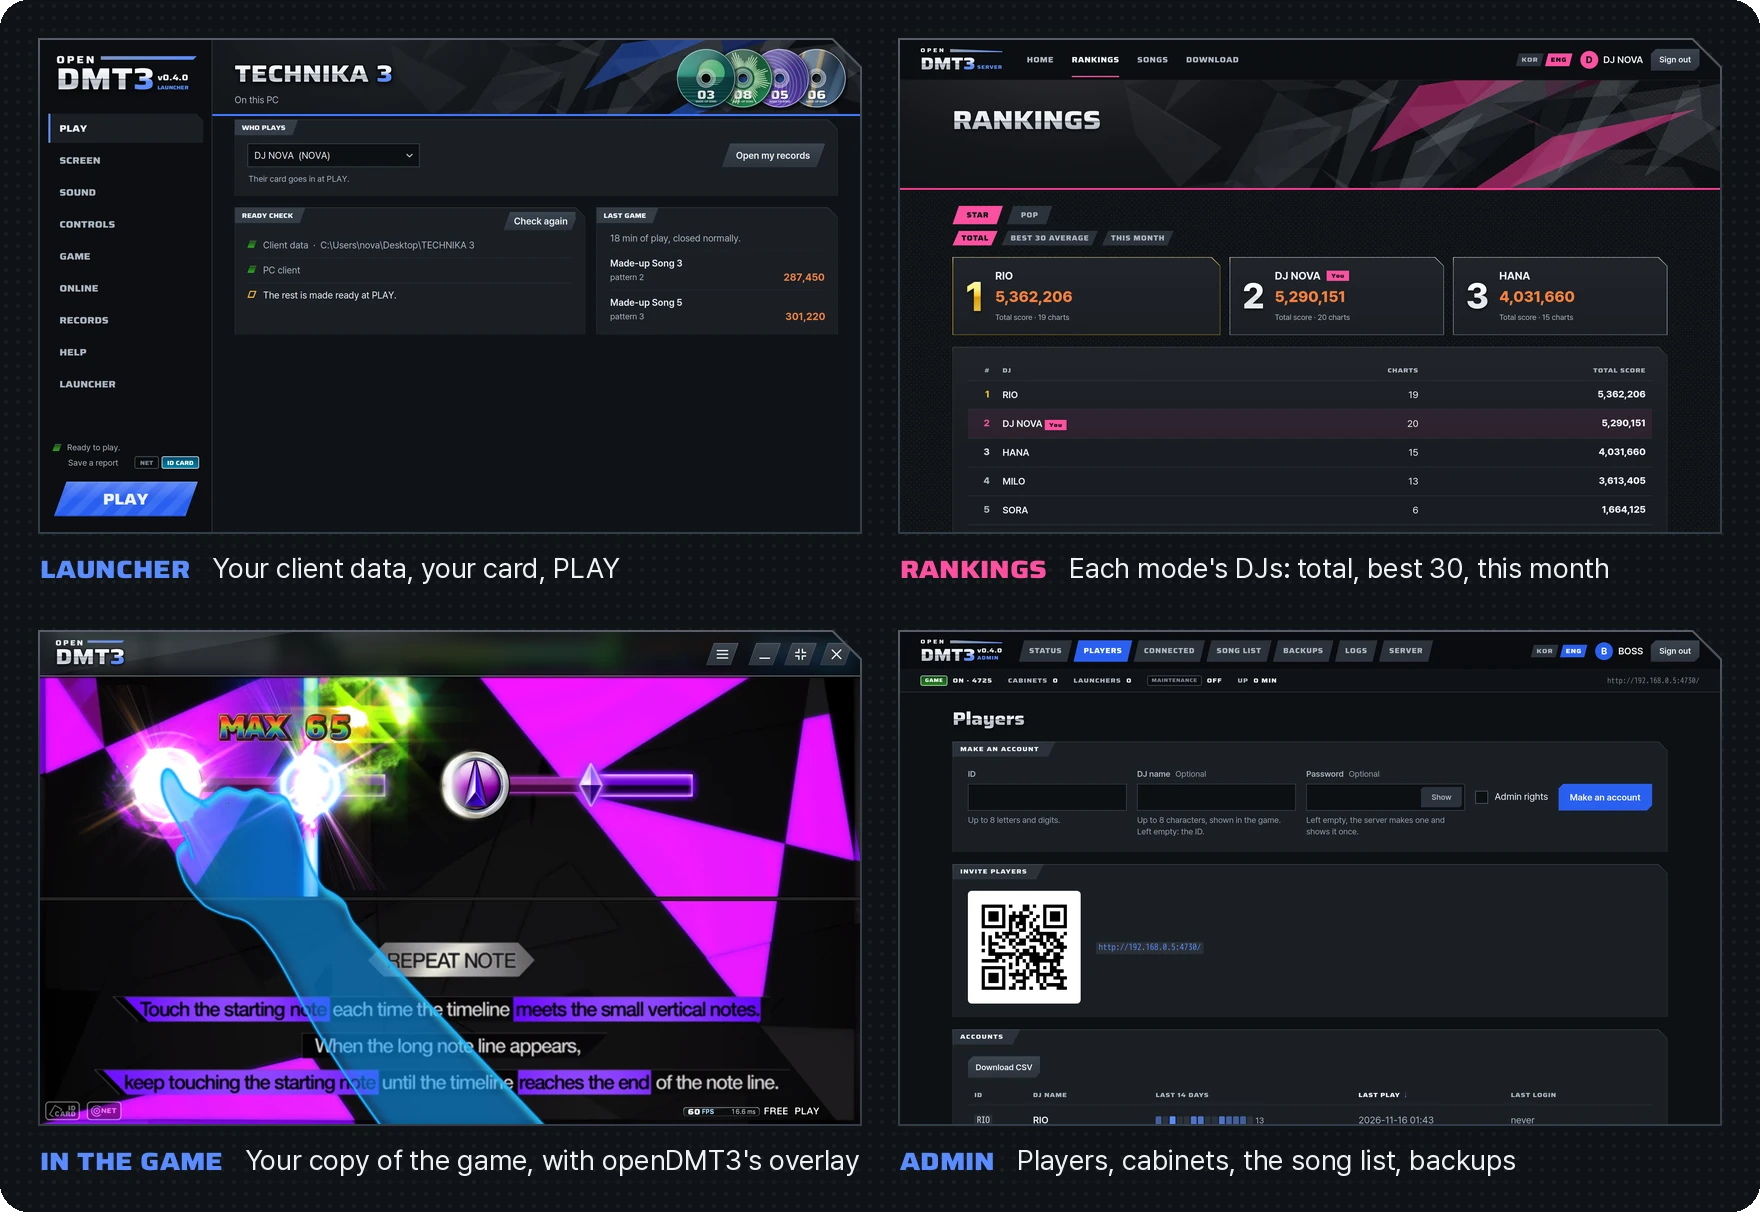
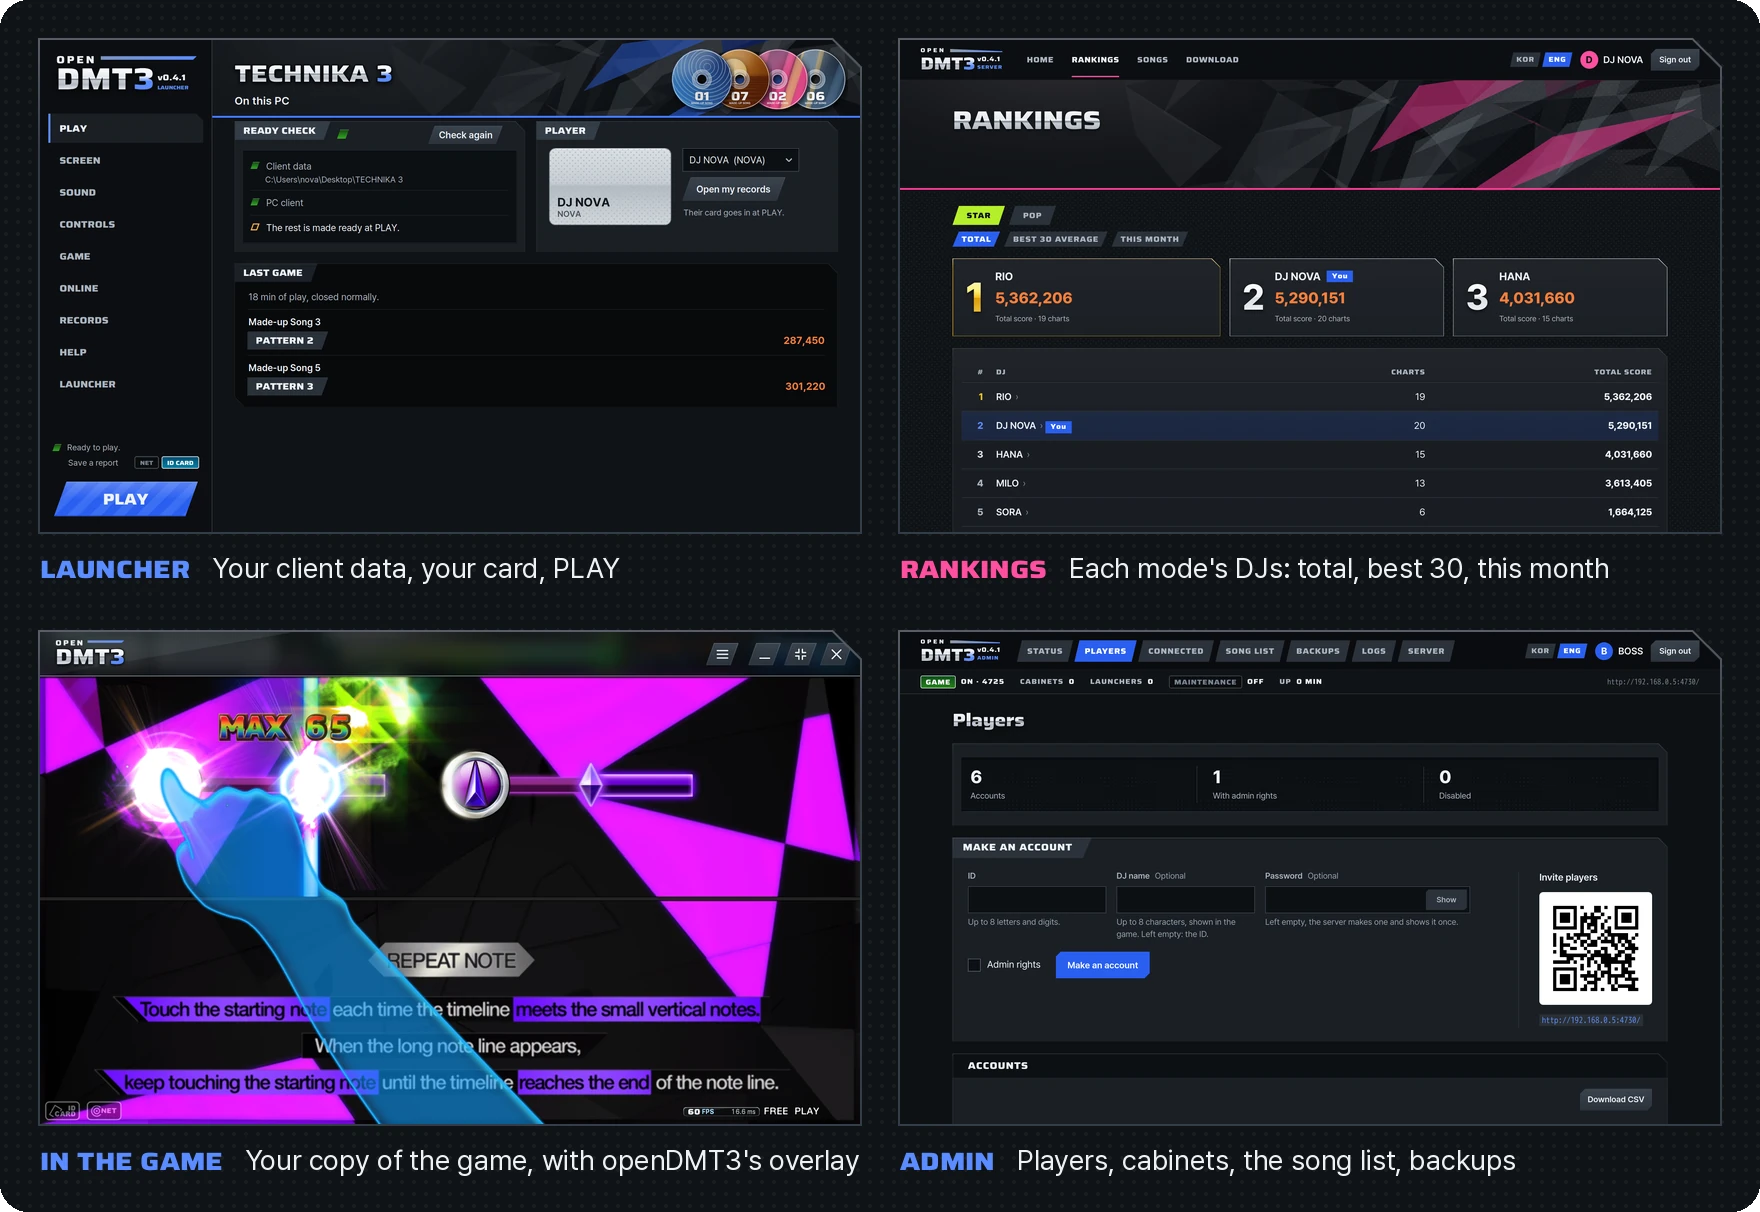
Docs: the launcher's and the sites' pictures from 0.4.2's composition and cards
The README's first picture's launcher, rankings and admin panels and the client data guide's DISC CHECK shot again
(launcher_shots.py, site_shots.js on made-up data; the game panel from the same frame as 0.4.0's): PLAY's ready check
beside the player's platinum card and the last game under them, the rankings' choices and one's own row in openDMT3's
blue, the admin Players page opening on its figures with the invite beside the form. The first picture's alt text
says so.

diff --git a/README.md b/README.md
@@ -27,7 +27,7 @@
 </p>
 
 <p align="center">
-  <img src="docs/images/showcase.webp" alt="openDMT3 in four screens, with made-up players, songs and folders: the launcher's PLAY page with who plays, the ready check and the last game; the players' site's rankings, each mode's DJs by total score with the first three on their plates; the game's own tutorial with openDMT3's overlay bar and its FPS counter at 60 FPS, 16.6 ms; and the admin site's Players page, under its rail of the server's state" width="100%">
+  <img src="docs/images/showcase.webp" alt="openDMT3 in four screens, with made-up players, songs and folders: the launcher's PLAY page with the ready check beside the player's platinum card and the last game under them; the players' site's rankings, each mode's DJs by total score with the first three on their plates over the list; the game's own tutorial with openDMT3's overlay bar and its FPS counter at 60 FPS, 16.6 ms; and the admin site's Players page under its rail of the server's state, its figures (6 accounts, 1 with admin rights, 0 disabled) over the form that makes an account, the invite's code beside it" width="100%">
 </p>
 
 **DJMAX TECHNIKA 3** is a touch-screen arcade rhythm game of 2011. openDMT3 plays your own copy of it on a Windows
